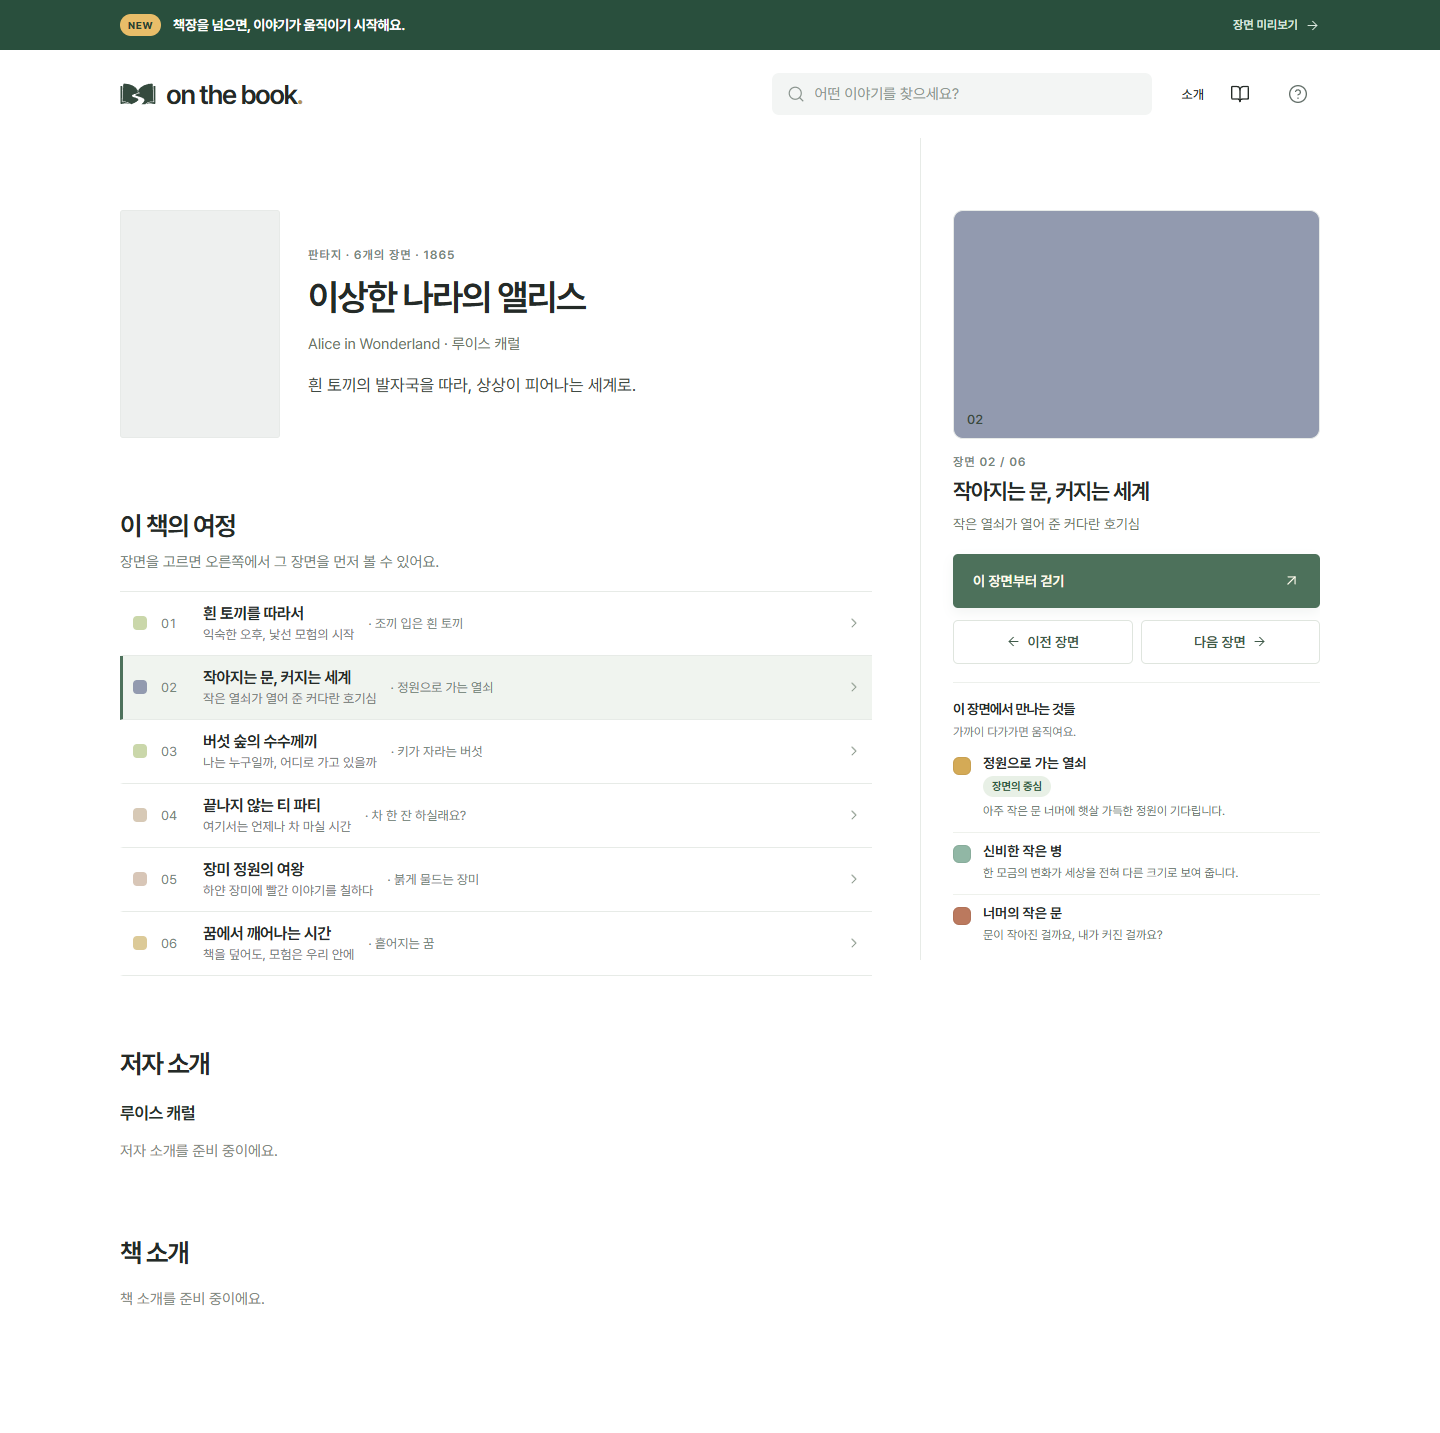
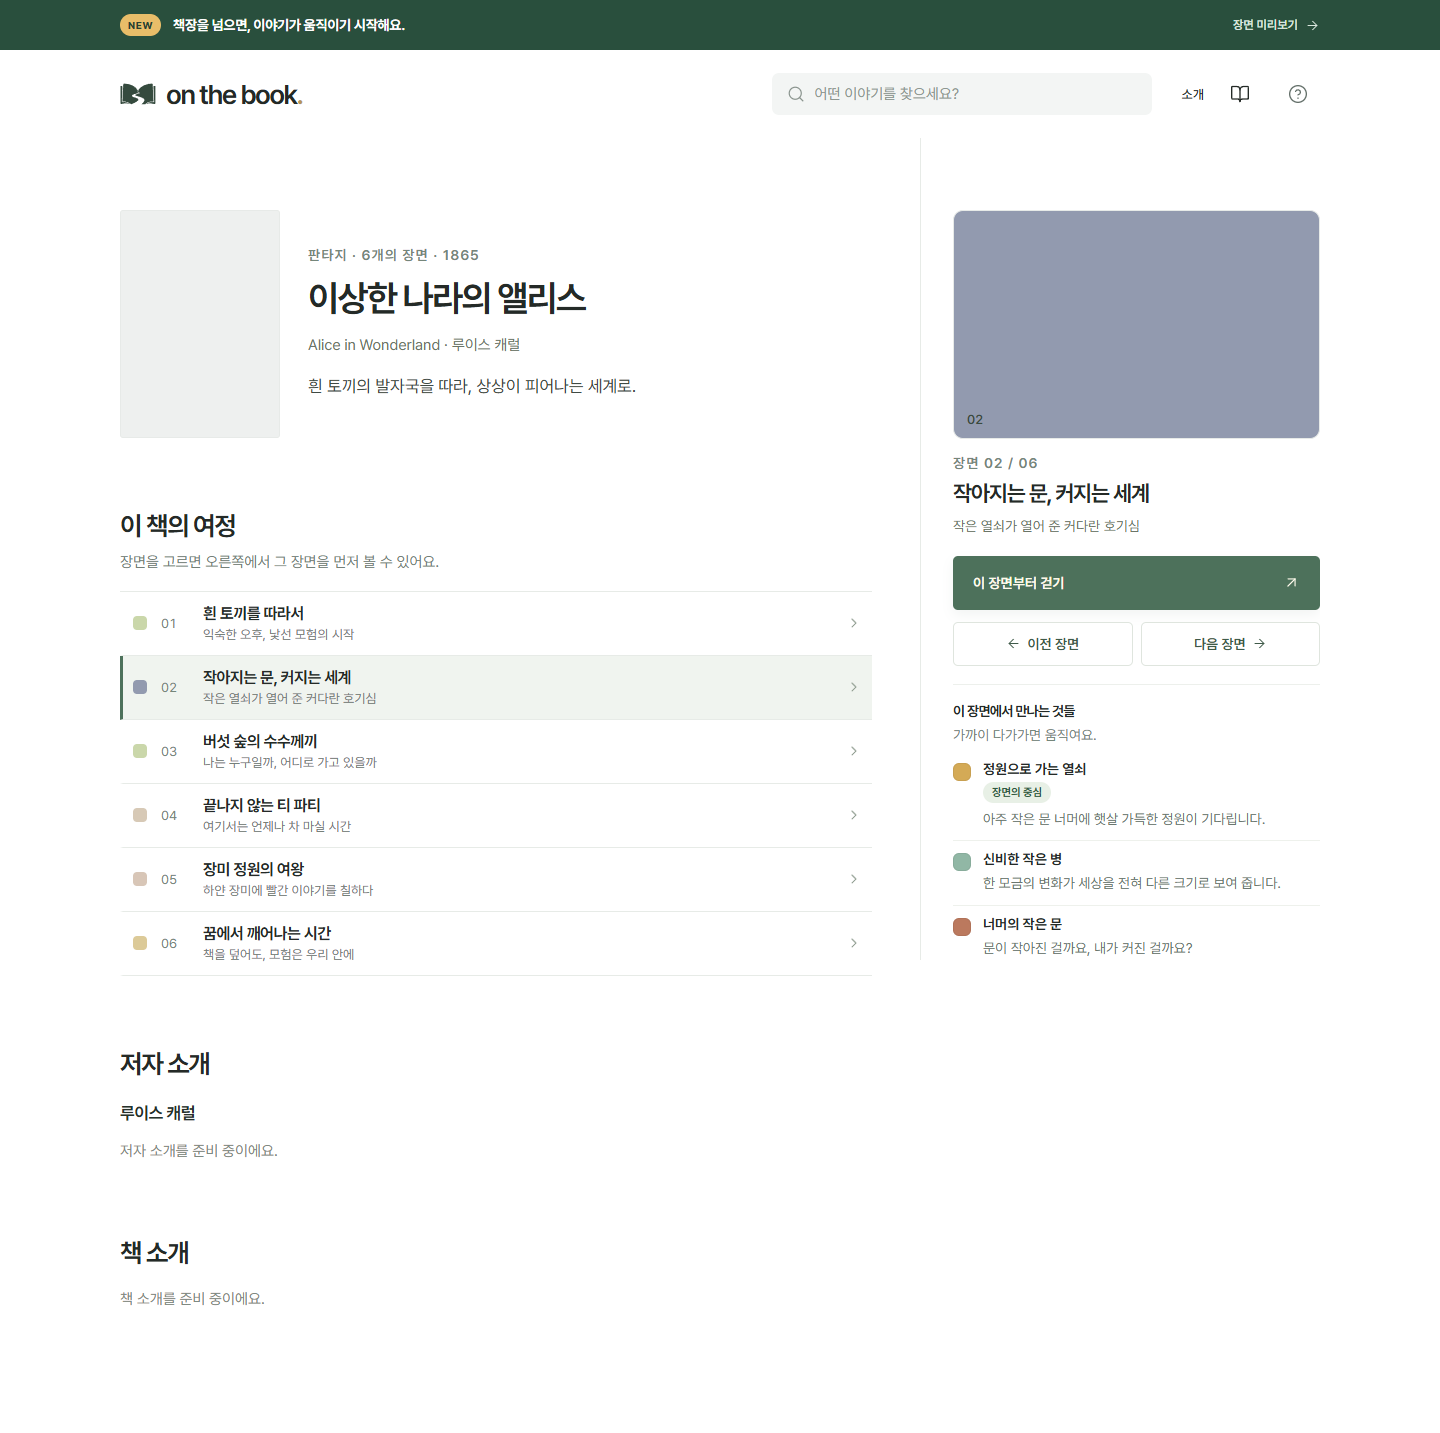
Drop the model name from journey rows and lift small print to 14px
Journey rows name the scene only; the scene's models stay in the panel's
list. The detail's 12px text (the hero eyebrow, the panel and sheet
eyebrow, the panel hint and the placement stories) is now 14px at every
width, the hero eyebrow included on phones, where it was 11px.

diff --git a/client/detail.css b/client/detail.css
@@ -12,7 +12,8 @@
 /* An uploaded cover fills its .catalog-cover slot through landing.css's `.catalog-cover img` rule. */
 .detail-cover { display: block; width: 160px; }
 .detail-copy { min-width: 0; }
-.detail-copy .eyebrow { margin-bottom: 14px; font-size: 12px; letter-spacing: .08em; color: #75867a; }
+/* The detail's small print is 14px at every width (it was 12px, and 11px for this line on phones). */
+.detail-copy .eyebrow { margin-bottom: 14px; font-size: 14px; letter-spacing: .08em; color: #75867a; }
 .detail-copy h1 { margin: 0 0 12px; font-size: 36px; line-height: 1.2; word-break: keep-all; outline: none; }
 .detail-meta { margin: 0 0 12px; font-size: 15px; color: #6b7567; }
 .detail-description { max-width: 560px; margin: 0; font-size: 17px; line-height: 1.7; color: #3f4a44; word-break: keep-all; }
@@ -36,7 +37,6 @@
 .journey-copy { display: flex; flex-direction: column; gap: 4px; min-width: 0; }
 .journey-copy strong { font-size: 16px; font-weight: 650; letter-spacing: -.025em; overflow-wrap: anywhere; }
 .journey-copy small { font-size: 13px; color: #768079; }
-.journey-model { font-size: 13px; color: #75867a; white-space: nowrap; }
 .journey-badge { flex: none; padding: 4px 9px; border-radius: 20px; background: #e8f0e6; color: #2f5a41; font-size: 11px; font-weight: 650; white-space: nowrap; }
 .journey-row svg { flex: none; width: 16px; height: 16px; margin-left: auto; color: #93a094; }
 /* Theme colours mirror the 3D floor (shared/world.js themes[*].ground). meadow is the default. */
@@ -60,14 +60,14 @@
    `.scene-image img` covers the slot and `.scene-image.has-image .scene-number` becomes a light pill). */
 .scene-panel .scene-image, .scene-sheet .scene-image { display: block; width: 100%; aspect-ratio: 16 / 10; border-radius: 10px; }
 .scene-panel .scene-number, .scene-sheet .scene-number { font-size: 13px; color: #3a4a40; }
-.scene-panel .eyebrow, .scene-sheet .eyebrow { margin: 16px 0 8px; font-size: 12px; letter-spacing: .08em; color: #75867a; }
+.scene-panel .eyebrow, .scene-sheet .eyebrow { margin: 16px 0 8px; font-size: 14px; letter-spacing: .08em; color: #75867a; }
 .scene-panel h2, .scene-sheet h2 { margin: 0 0 6px; font-size: 22px; line-height: 1.3; word-break: keep-all; font-family: inherit; letter-spacing: -.05em; font-weight: 650; }
 .scene-panel .detail-meta, .scene-sheet .detail-meta { margin: 0 0 10px; font-size: 14px; color: #6b7567; }
 .scene-panel > .journey-badge, .scene-sheet > .journey-badge { display: inline-block; margin-bottom: 12px; }
 .scene-panel .detail-enter, .scene-sheet .detail-enter { width: 100%; margin: 6px 0 4px; justify-content: space-between; }
 .panel-section { padding-top: 18px; margin-top: 18px; border-top: 1px solid #edf0ec; }
 .panel-section h3 { margin: 0 0 4px; font-size: 14px; }
-.panel-hint { margin: 0 0 8px; font-size: 12px; color: #75867a; }
+.panel-hint { margin: 0 0 8px; font-size: 14px; color: #75867a; }
 .figure-list { list-style: none; margin: 0; padding: 0; }
 .figure-list li { display: flex; gap: 12px; align-items: flex-start; padding: 10px 0; border-top: 1px solid #eef1ec; }
 .figure-list li:first-child { border-top: 0; padding-top: 4px; }
@@ -75,7 +75,7 @@
 .figure-copy { display: flex; flex-direction: column; gap: 5px; min-width: 0; }
 .figure-copy strong { font-size: 14px; font-weight: 650; }
 .figure-copy .journey-badge { align-self: flex-start; }
-.figure-story { font-size: 12px; line-height: 1.65; color: #6b776f; }
+.figure-story { font-size: 14px; line-height: 1.6; color: #6b776f; }
 /* Previous and next: two buttons of the same width right under the CTA. A missing side stays as a dimmed slot. */
 .neighbor-nav { display: grid; grid-template-columns: 1fr 1fr; gap: 8px; margin-top: 8px; }
 .neighbor-link { display: flex; align-items: center; justify-content: center; gap: 6px; min-height: 44px; padding: 10px 12px; border: 1px solid #dfe5de; border-radius: 5px; background: #fff; color: #3f5a49; font-size: 14px; font-weight: 600; white-space: nowrap; }
@@ -112,7 +112,7 @@
 @media (max-width: 600px) {
   .detail-hero { grid-template-columns: 112px minmax(0, 1fr); gap: 18px; align-items: start; }
   .detail-cover { width: 112px; }
-  .detail-copy .eyebrow { margin-bottom: 8px; font-size: 11px; }
+  .detail-copy .eyebrow { margin-bottom: 8px; }
   .detail-copy h1 { margin-bottom: 8px; font-size: 26px; letter-spacing: -.045em; }
   .detail-meta { font-size: 13px; }
   .detail-description { font-size: 15px; }
@@ -123,7 +123,6 @@
   .detail-prose p { font-size: 15px; line-height: 1.75; }
   .detail-intro-empty { font-size: 14px; }
   .journey-row { gap: 12px; min-height: 58px; }
-  .journey-model { display: none; }
 }
 @media (max-width: 370px) {
   .detail-hero { grid-template-columns: minmax(0, 1fr); }

diff --git a/client/detail.js b/client/detail.js
@@ -86,10 +86,10 @@ export const sceneStatus = ({ book, chapter }) => `${two(indexOf(book, chapter) 
 // The whole book detail page. `chapter` is the scene the panel shows; it defaults to the saved or first scene.
 export function bookDetail({ book, library, progress = {}, preview = false, chapter = defaultScene(book, progress) }) {
   const saved = savedChapter(book, progress);
-  const rows = book.chapters.map((scene, index) => {
-    const main = mainPlacement(scene);
-    return `<li><a class="journey-row" href="${esc(detailUrl({ book: book.id, scene: scene.id, preview }))}" data-scene="${esc(scene.id)}" aria-current="${scene.id === chapter.id ? "true" : "false"}">${themeChip(scene.theme)}<span class="journey-number">${two(index + 1)}</span><span class="journey-copy"><strong>${esc(scene.title)}</strong>${scene.subtitle ? `<small>${esc(scene.subtitle)}</small>` : ""}</span>${main ? `<span class="journey-model">· ${esc(main.title)}</span>` : ""}${scene.id === saved?.id ? savedBadge : ""}${icon("chevron-right")}</a></li>`;
-  }).join("");
+  // A row names the scene only; its models are listed in the scene panel.
+  const rows = book.chapters.map((scene, index) =>
+    `<li><a class="journey-row" href="${esc(detailUrl({ book: book.id, scene: scene.id, preview }))}" data-scene="${esc(scene.id)}" aria-current="${scene.id === chapter.id ? "true" : "false"}">${themeChip(scene.theme)}<span class="journey-number">${two(index + 1)}</span><span class="journey-copy"><strong>${esc(scene.title)}</strong>${scene.subtitle ? `<small>${esc(scene.subtitle)}</small>` : ""}</span>${scene.id === saved?.id ? savedBadge : ""}${icon("chevron-right")}</a></li>`
+  ).join("");
   return `<main class="detail-page store-content" id="main-content" data-view="book">
     <div class="detail-main">
       <section class="detail-hero" aria-labelledby="detail-title"><span class="detail-cover">${bookCover(book)}</span><div class="detail-copy"><span class="eyebrow">${esc(edition(book).category)} · ${book.chapters.length}개의 장면 · ${book.year}</span><h1 id="detail-title" tabindex="-1">${esc(book.title)}</h1><p class="detail-meta">${esc(book.englishTitle)} · ${esc(book.author)}</p><p class="detail-description">${esc(book.description)}</p></div></section>

diff --git a/tests/detail.test.js b/tests/detail.test.js
@@ -60,7 +60,9 @@ test("bookDetail opens the panel on the first scene when nothing is saved", () =
   assert.equal(count(html, 'aria-current="true"'), 1);
   assert.match(html, /data-scene="alice-1" aria-current="true"/);
   assert.match(html, /<h2 id="detail-journey-title">이 책의 여정<\/h2><p><span class="journey-hint journey-hint--wide">장면을 고르면 오른쪽에서 그 장면을 먼저 볼 수 있어요\.<\/span><span class="journey-hint journey-hint--narrow">장면을 고르면 그 장면을 먼저 볼 수 있어요\.<\/span><\/p>/);
-  assert.match(html, /<span class="journey-model">· 조끼 입은 흰 토끼<\/span>/);
+  // A journey row names the scene only; the scene's main model is left to the panel.
+  assert.match(html, /<span class="journey-copy"><strong>흰 토끼를 따라서<\/strong><small>익숙한 오후, 낯선 모험의 시작<\/small><\/span><i data-lucide="chevron-right" aria-hidden="true"><\/i><\/a>/);
+  assert.doesNotMatch(html, /journey-model/);
   assert.match(html, /<aside class="scene-panel" aria-labelledby="panel-scene-title">/);
   assert.match(html, /<h2 id="panel-scene-title">흰 토끼를 따라서<\/h2>/);
   assert.equal(count(html, 'data-enter="alice"'), 2);

diff --git a/docs/superpowers/specs/2026-09-28-detail-pages-design.md b/docs/superpowers/specs/2026-09-28-detail-pages-design.md
@@ -139,10 +139,11 @@ main.detail-page.store-content#main-content[data-view="book"]
 
 여정 `.detail-section#detail-journey`
 - `h2` "이 책의 여정", 설명 `p` "장면을 고르면 오른쪽에서 그 장면을 먼저 볼 수 있어요."(850px 이하에서는 CSS 로 "장면을 고르면 그 장면을 먼저 볼 수 있어요." 를 보인다. 두 문구를 `span` 둘로 넣고 폭에 따라 하나만 보인다.)
-- `<ol class="journey-list">` 안에 챕터 순서대로 `<li><a class="journey-row" href="{detailUrl scene}" data-scene="alice-2" aria-current="true|false">`. 행 안: 테마 칩 `.theme-chip[data-theme]`(`aria-hidden`), 번호 `01`, `strong` 제목, `small` 부제, 대표 모델 `span.journey-model` "· 조끼 입은 흰 토끼", 배지 `.journey-badge` "마지막에 머문 장면"(저장된 장면 행 하나), `chevron-right` 아이콘.
+- `<ol class="journey-list">` 안에 챕터 순서대로 `<li><a class="journey-row" href="{detailUrl scene}" data-scene="alice-2" aria-current="true|false">`. 행 안: 테마 칩 `.theme-chip[data-theme]`(`aria-hidden`), 번호 `01`, `strong` 제목, `small` 부제, 배지 `.journey-badge` "마지막에 머문 장면"(저장된 장면 행 하나), `chevron-right` 아이콘. 행에는 대표 모델 이름을 두지 않는다(2026-09-29 사용자 요청으로 `span.journey-model` "· 조끼 입은 흰 토끼"를 없앴다. 장면의 모델은 패널의 "이 장면에서 만나는 것들"에 있다).
 - 선택된 행은 `aria-current="true"` 이고 연한 배경(`#f0f4ef`)과 왼쪽 3px 강조선(`--accent`)을 갖는다. 나머지는 `aria-current="false"`.
 - 행은 진짜 링크다. 수정키 클릭·가운데 클릭은 브라우저에 맡겨 `?book=&scene=` 을 새 탭으로 열 수 있고, 일반 클릭은 `preventDefault()` 뒤 장면 선택(4절)이다.
-- 대표 모델은 `chapter.mainPlacementId` 가 가리키는 배치의 `title`, 없으면 첫 배치, 배치가 없으면 생략. 테마 칩 색은 meadow `#cad7aa`, night `#929aaf`, tea `#d7c9b6`, rose `#d8c6b7`, gold `#dcca98`(3D 월드 바닥색).
+- 작은 글자는 14px 이다. 히어로의 `.eyebrow`, 패널·시트의 `.eyebrow`("장면 02 / 06"), `.panel-hint`, `.figure-story` 가 12px(히어로 `.eyebrow` 는 600px 이하 11px)였는데, 2026-09-29 사용자 요청으로 모든 폭에서 14px 로 올렸다. 13px(번호·부제·하단 바 문구)와 11px 배지는 그대로다.
+- 테마 칩 색은 meadow `#cad7aa`, night `#929aaf`, tea `#d7c9b6`, rose `#d8c6b7`, gold `#dcca98`(3D 월드 바닥색).
 
 저자 소개·책 소개 `.detail-section.detail-intro`
 - 여정 다음에 저자 소개, 책 소개 순서로 늘 놓고, 책 소개가 왼쪽 열의 끝이다. 비어 있으면 본문 자리에 준비 중 문구를 보인다. 자세한 규칙은 19절.
